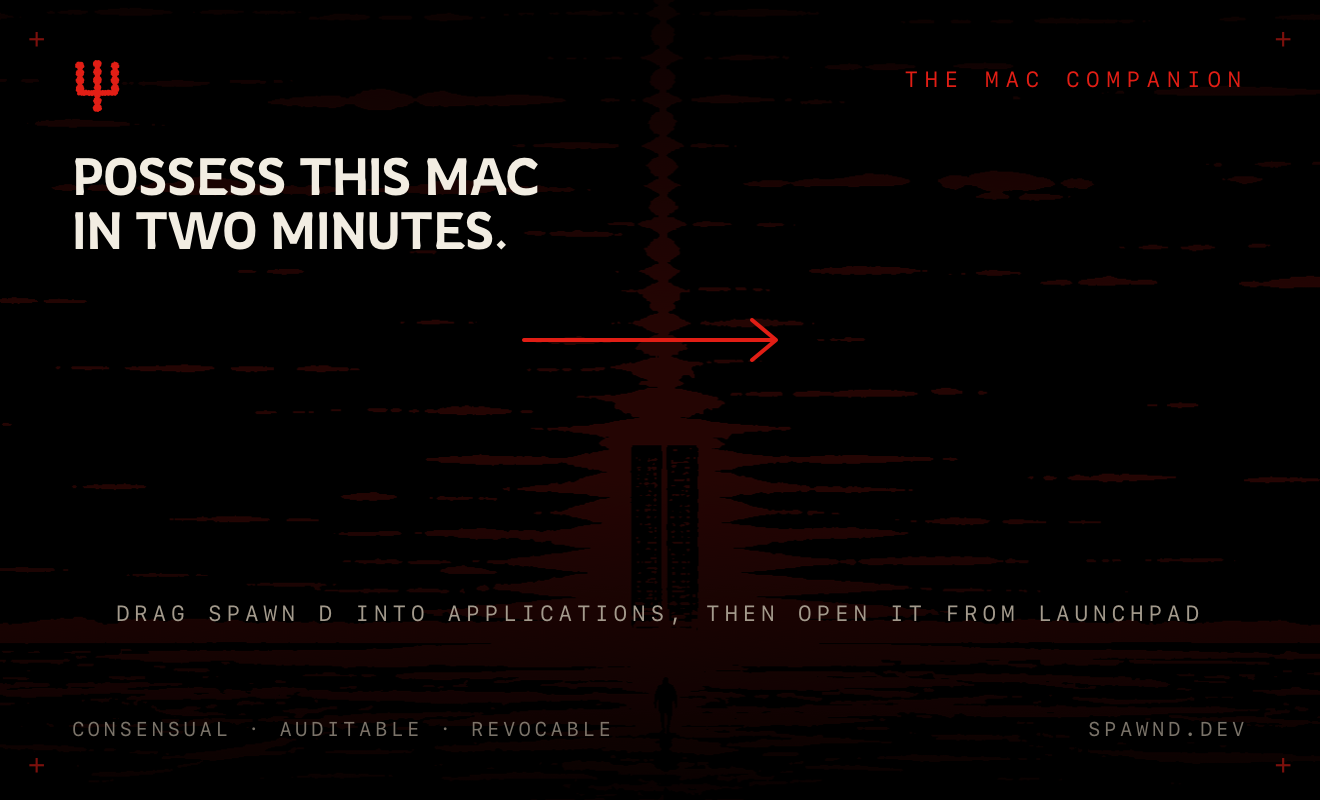
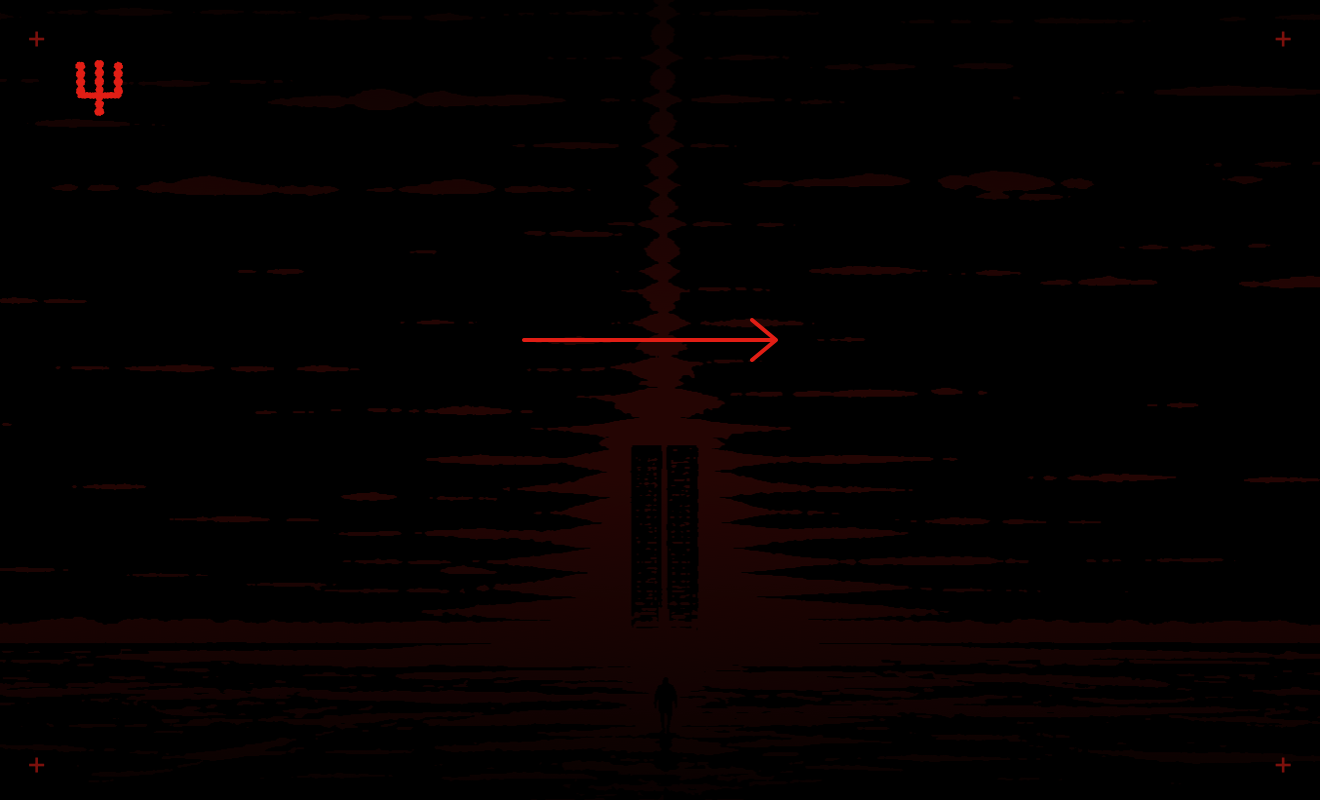
feat(desktop): the disk image says nothing
The window keeps the ink plate, the trident, the registration marks and the
one arrow between the app and Applications; the headline, eyebrow, caption
and colophon go. The Finder's own label under the Applications folder says
all that needs saying, and the icons say the rest.

Claude-Session: https://claude.ai/code/session_01HwyhKSMoeQ8Y8RPbM31Wdv

diff --git a/desktop/src-tauri/dmg/background.html b/desktop/src-tauri/dmg/background.html
@@ -1,51 +1,39 @@
 <!doctype html>
 <!--
-  The disk image's window, printed on the press sheet. Rendered to
-  background.png (660×400 points at 2×, tagged 144 dpi so the Finder draws it
-  at its logical size) by `npm run dmg:background`; the icon positions match
-  `bundle.macOS.dmg` in tauri.conf.json, which is why the arrow lands where
-  it does. Assets are the app's own, so this can never drift from the app.
+  The disk image's window, printed on the press sheet: the ink plate, the
+  trident, the registration marks and one arrow between the two icons — no
+  words, the Finder's own "Applications" label says all that needs saying.
+  Rendered to background.png (660×400 points at 2×, tagged 144 dpi so the
+  Finder draws it at its logical size) by `npm run dmg:background`; the icon
+  positions match `bundle.macOS.dmg` in tauri.conf.json, which is why the
+  arrow lands where it does. Assets are the app's own, so this can never
+  drift from the app.
 -->
 <html lang="en">
 <head>
 <meta charset="utf-8" />
 <style>
-  @font-face { font-family: "IBM Plex Sans"; font-weight: 100 700; src: url("../../src/assets/fonts/ibm-plex-sans-latin.woff2") format("woff2"); }
-  @font-face { font-family: "Rowdies"; font-weight: 300; src: url("../../src/assets/fonts/rowdies-300-latin.woff2") format("woff2"); }
   html, body { margin: 0; background: #000; }
   .bg {
     position: relative; width: 660px; height: 400px; overflow: hidden;
     background: #000 url("../../src/assets/altar-ink.png") 50% 38% / cover no-repeat;
-    font-family: "IBM Plex Sans", "Helvetica Neue", Arial, sans-serif;
-    color: #f2ede2; -webkit-font-smoothing: antialiased;
   }
   .scrim { position: absolute; inset: 0; background: linear-gradient(180deg, rgba(0,0,0,.95) 0%, rgba(0,0,0,.84) 40%, rgba(0,0,0,.84) 60%, rgba(0,0,0,.96) 100%); }
-  .mono { font-family: ui-monospace, "SF Mono", Menlo, monospace; text-transform: uppercase; }
   .marks span { position: absolute; font-family: ui-monospace, "SF Mono", Menlo, monospace; font-size: 14px; color: rgba(225,30,21,.55); }
   .marks span:nth-child(1) { top: 10px; left: 14px; } .marks span:nth-child(2) { top: 10px; right: 14px; }
   .marks span:nth-child(3) { bottom: 10px; left: 14px; } .marks span:nth-child(4) { bottom: 10px; right: 14px; }
-  .lockup { position: absolute; top: 30px; left: 36px; display: flex; align-items: center; gap: 12px; color: #e11e15; }
-  .trident { width: 26px; aspect-ratio: 1; background: url("../../src/assets/spawnd-icon.svg") center / contain no-repeat; }
-  .wordmark { height: 20px; aspect-ratio: 1753 / 370; background: currentColor; -webkit-mask: url("../../src/assets/spawnd-wordmark.svg") left center / contain no-repeat; }
-  .eyebrow { position: absolute; top: 33px; right: 36px; font-size: 11px; letter-spacing: .3em; color: #e11e15; }
-  .title { position: absolute; top: 74px; left: 36px; margin: 0; font-family: "Rowdies", sans-serif; font-weight: 300; font-size: 26px; line-height: 1.04; text-transform: uppercase; color: #f2ede2; }
+  .trident { position: absolute; top: 30px; left: 36px; width: 28px; aspect-ratio: 1; background: url("../../src/assets/spawnd-icon.svg") center / contain no-repeat; }
   .arrow { position: absolute; left: 258px; top: 156px; width: 144px; height: 28px; }
-  .caption { position: absolute; top: 300px; left: 0; right: 0; text-align: center; font-size: 11px; letter-spacing: .22em; color: #a39a8c; }
-  .colophon { position: absolute; bottom: 30px; left: 36px; right: 36px; display: flex; justify-content: space-between; font-size: 10px; letter-spacing: .18em; color: rgba(163,154,140,.75); }
 </style>
 </head>
 <body>
 <div class="bg">
   <div class="scrim"></div>
   <div class="marks" aria-hidden="true"><span>+</span><span>+</span><span>+</span><span>+</span></div>
-  <div class="lockup"><span class="trident"></span><span class="wordmark"></span></div>
-  <div class="eyebrow mono">The Mac companion</div>
-  <h1 class="title">Possess this Mac<br>in two minutes.</h1>
+  <div class="trident" aria-hidden="true"></div>
   <svg class="arrow" viewBox="0 0 144 28" fill="none" stroke="#e11e15" stroke-width="2" stroke-linecap="round" stroke-linejoin="round" aria-hidden="true">
     <path d="M4 14h124" /><path d="m118 4 12 10-12 10" />
   </svg>
-  <div class="caption mono">Drag SPAWN D into Applications, then open it from Launchpad</div>
-  <div class="colophon mono"><span>consensual · auditable · revocable</span><span>spawnd.dev</span></div>
 </div>
 </body>
 </html>
